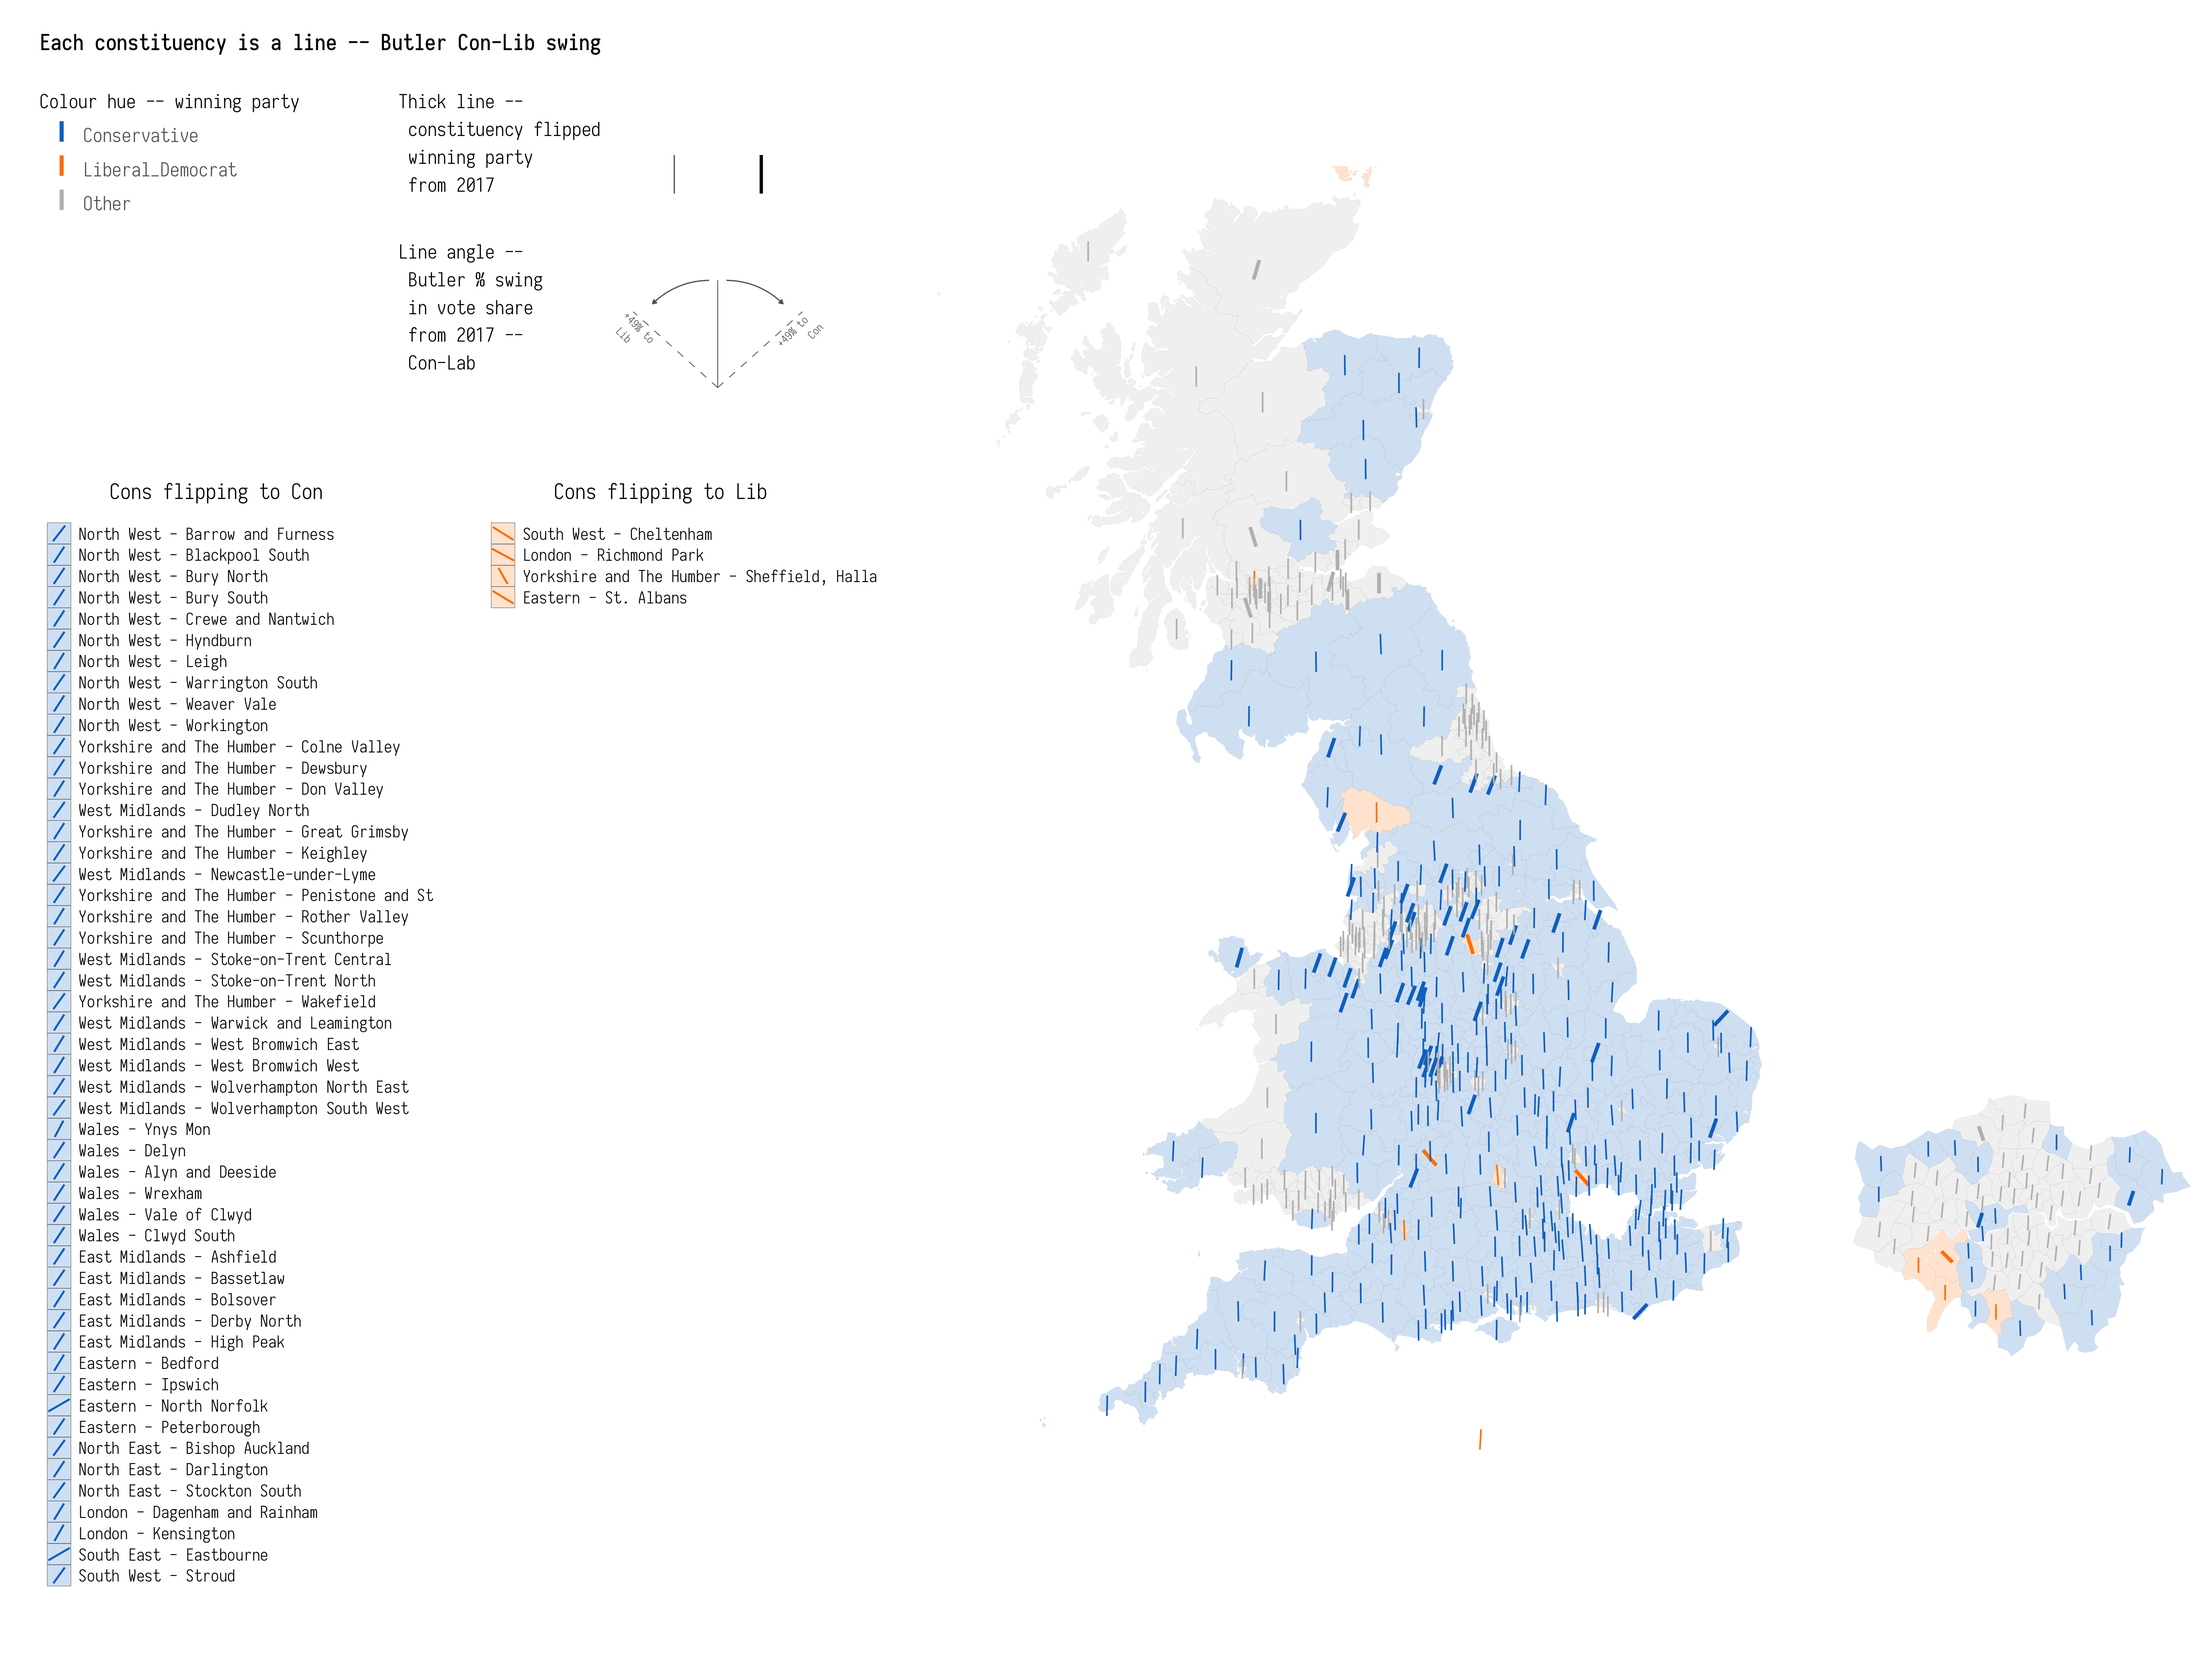
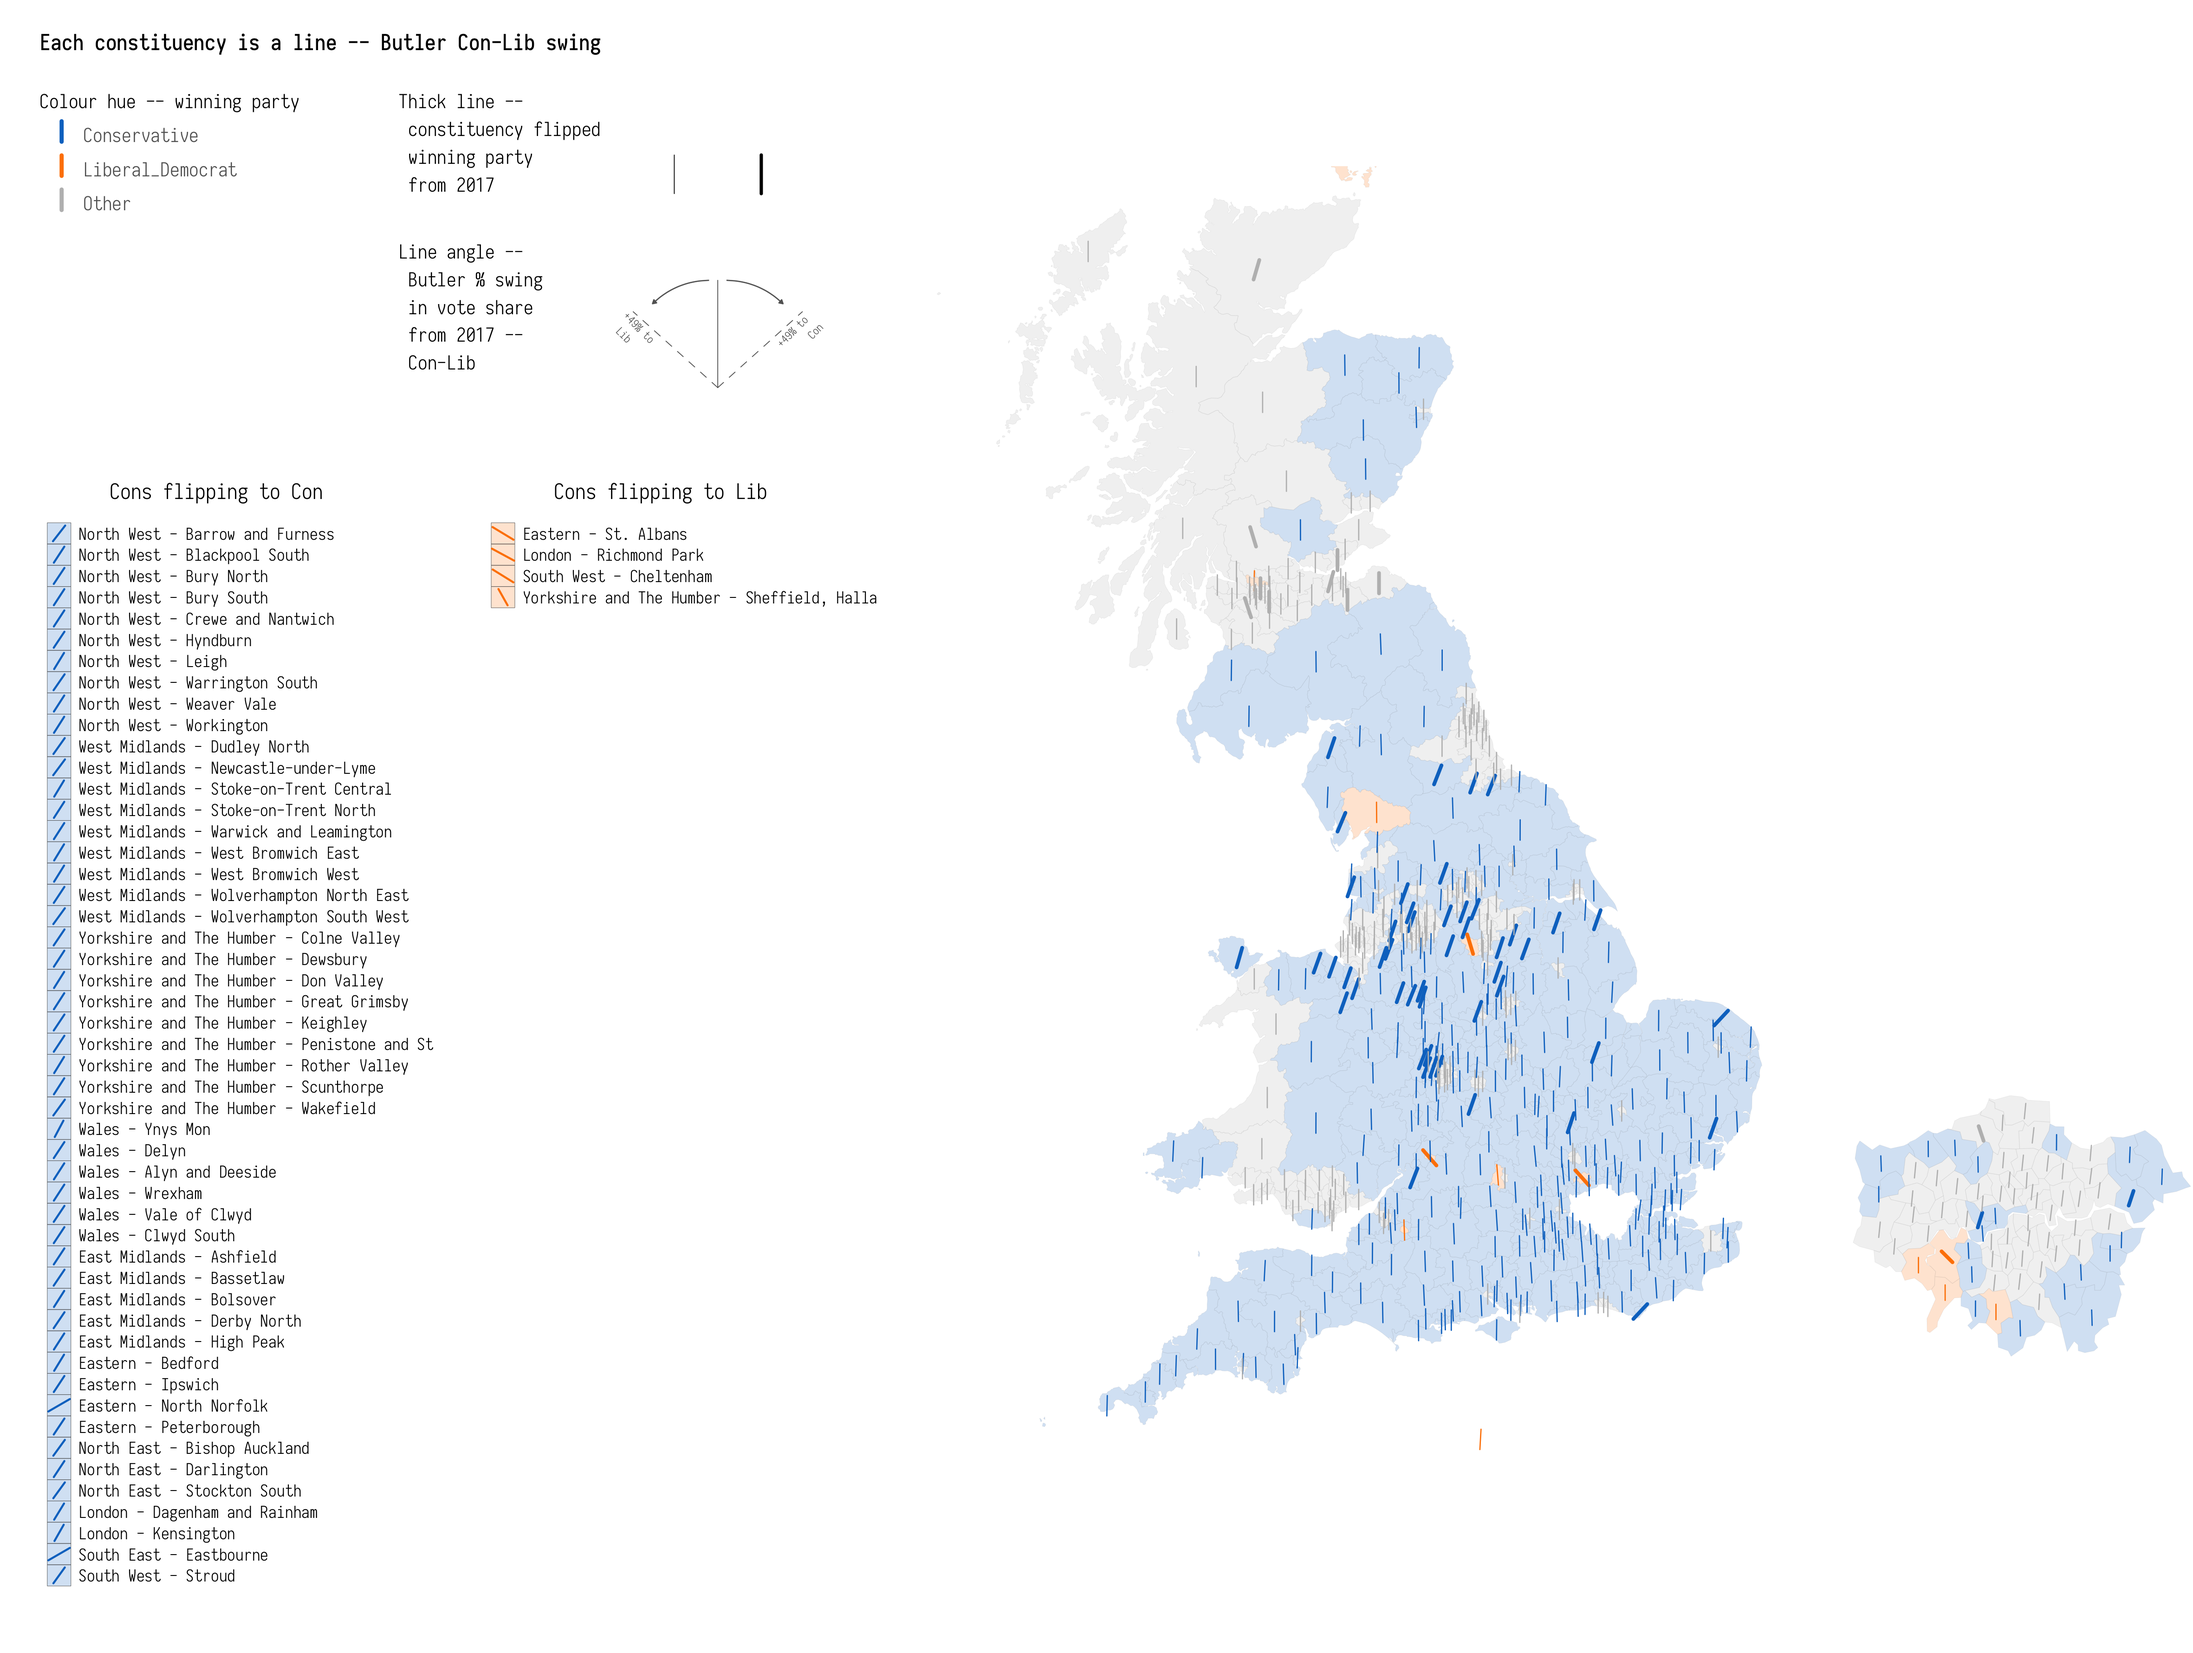
Design iteration 1 : Using YouGov MRP data.

Changed region(s): [[0.0311, 0.4364, 0.1867, 0.6858], [0.2178, 0.3429, 0.3112, 0.3741], [0.3423, 0.3429, 0.3734, 0.3741]]

diff --git a/README.md b/README.md
@@ -23,7 +23,7 @@ The data in this repository (found in [data/](data/)) is assembled from:
     : constituency-level vote share estimates based on surveys from
     100,000 panellists and an MRP model. Methods by [Benjamin
     Lauderdale](http://benjaminlauderdale.net/) and [Jack
-    Blumenau](https://www.jackblumenau.com/)
+    Blumenau](https://www.jackblumenau.com/).
 
 *Boundary data*
 
@@ -52,17 +52,7 @@ theme_set(theme_void(base_family="Iosevka Light"))
 # Read in data from 2017 and 2015 from Electoral Commission.
 data <- read_csv("./data/data.csv")
 
-# Check consistency in winning party names between 2017 and 2015.
-data %>% group_by(ons_code, year) %>%
-  mutate(
-    total_votes=sum(valid_votes),
-    first=max(valid_votes),
-    vote_share=valid_votes/total_votes,
-    is_first=if_else(valid_votes==first, 1, 0)
-    ) %>%
-  select(ons_code, constituency, party, valid_votes, vote_share, total_votes, is_first) %>%
-  filter(is_first==1, year) %>% ungroup() %>% select(party, year) %>% unique %>% View
-
+# From 2017, recode parties.
 # Recode speaker (Bercow) to Conservative
 # Recode Democratic Unionist Party to DUP
 # Recode Labour and Co-operative to Labour
@@ -112,10 +102,9 @@ winners_2017 <- data %>%
   mutate(
     total_votes=sum(valid_votes),
     first=max(valid_votes),
-    vote_share=valid_votes/total_votes,
     is_first=if_else(valid_votes==first, 1, 0)
     ) %>%
-  select(ons_code, constituency, party, valid_votes, vote_share, total_votes, is_first) %>%
+  select(ons_code, constituency, party, is_first) %>%
   filter(is_first==1) %>% ungroup() %>% select(party) %>% unique
 
 # Check that both match
@@ -244,7 +233,7 @@ names(colours) <- levels(data_plot$elected)
 
 To continuously vary line angle (as in [Washington Post
 piece](https://www.washingtonpost.com/graphics/politics/2016-election/election-results-from-coast-to-coast/)),
-I’m using `geom_spoke`. Couple of additional convenience functions are
+I’m using `geom_spoke()`. Couple of additional convenience functions are
 below.
 
 ``` r
@@ -275,9 +264,9 @@ PositionCenterSpoke <- ggplot2::ggproto('PositionCenterSpoke', ggplot2::Position
 ``` r
 # Use of angle to encode swing.
 swing <-  ggplot()+
-  geom_spoke(aes(x=0, y=-.35,angle=get_radians(90)),radius=0.55, size=0.2, colour="#636363")+
-  geom_spoke(aes(x=0, y=-.35,angle=get_radians(135)),radius=0.55, size=0.2,colour="#636363", linetype = "dashed")+
-  geom_spoke(aes(x=0, y=-.35,angle=get_radians(45)),radius=0.55,size=0.2,colour="#636363",linetype = "dashed")+
+  geom_spoke(aes(x=0, y=-.35,angle=get_radians(90)),radius=0.55, size=0.2, colour="#636363", lineend="round")+
+  geom_spoke(aes(x=0, y=-.35,angle=get_radians(135)),radius=0.55, size=0.2,colour="#636363", linetype = "dashed", lineend="round")+
+  geom_spoke(aes(x=0, y=-.35,angle=get_radians(45)),radius=0.55,size=0.2,colour="#636363",linetype = "dashed", lineend="round")+
   geom_text(aes(label="+17% to \n Con",x=.45, y=0), angle=45,hjust="right", family="Iosevka Light", size=2, colour="#636363")+
   geom_text(aes(label="+17% to \n Lab, Lib, Grn, SNP",x=-.45, y=0), angle=315,hjust="left", family="Iosevka Light", size=2, colour="#636363")+
   geom_curve(aes(x=-.04, y=.2, xend=-.3, yend=.08), size=0.3, curvature = 0.2, arrow=arrow(type="closed", length = unit(.03, "inches")), colour="#636363")+
@@ -292,7 +281,7 @@ temp_dat <-tibble(
 )
 party <- temp_dat %>%
   ggplot()+
-  geom_spoke(aes(x=x, y=y,angle=get_radians(90), colour=elected),radius=0.6, size=1)+
+  geom_spoke(aes(x=x, y=y,angle=get_radians(90), colour=elected),radius=0.6, size=1, lineend="round")+
   scale_colour_manual(values=colours)+
   geom_text(aes(label=elected,x=x+0.05, y=y+0.2),hjust="left",vjust="middle", family="Iosevka Light", size=3.5, colour="#636363")+
     guides(colour=FALSE)+
@@ -300,8 +289,8 @@ party <- temp_dat %>%
   ylim(1,8)
 # Use of thickness to flips.
 line <-  ggplot()+
-  geom_spoke(aes(x=-0.2, y=-.35,angle=get_radians(90)),radius=0.55, size=0.2)+
-  geom_spoke(aes(x=0.2, y=-.35,angle=get_radians(90)),radius=0.55, size=0.8)+
+  geom_spoke(aes(x=-0.2, y=-.35,angle=get_radians(90)),radius=0.55, size=0.2, lineend="round")+
+  geom_spoke(aes(x=0.2, y=-.35,angle=get_radians(90)),radius=0.55, size=0.8, lineend="round")+
   xlim(-0.5,0.5)+
   ylim(-0.35,0.35)
 
@@ -309,7 +298,7 @@ legend <- ggplot()+
   geom_text(aes(label="Each constituency is a line",x=0, y=6), hjust="left", vjust="top", family="Iosevka Medium", size=4)+
   geom_text(aes(label="Colour hue -- winning party",x=0, y=5), hjust="left", vjust="top", family="Iosevka Light", size=3.5)+
   geom_text(aes(label="Thick line -- \n constituency flipped \n winning party \n from 2017",x=4.5, y=5), hjust="left", vjust="top", family="Iosevka Light", size=3.5)+
-  geom_text(aes(label="Line angle -- \n net % increase \n in winning party \n share from 2017 \n '|' if % - in share",x=4.5, y=2.5), hjust="left", vjust="top", family="Iosevka Light", size=3.5)+
+  geom_text(aes(label="Line angle -- \n net % increase \n in winning party \n share from 2017 \n '|' if net % decrease \n in winning party share",x=4.5, y=2.5), hjust="left", vjust="top", family="Iosevka Light", size=3.5)+
   annotation_custom(grob=ggplotGrob(swing),xmin=7,xmax=10,ymin=0,ymax=2.5)+
   annotation_custom(ggplotGrob(line),xmin=7,xmax=10,ymin=4.2,ymax=3.3)+
   annotation_custom(ggplotGrob(party),xmin=0,xmax=6,ymin=0,ymax=5)+
@@ -320,7 +309,7 @@ legend <- ggplot()+
 ## Generate map with *geom\_spoke()* and *geom\_sf()*
 
 ``` r
-# Only shift overall vote if the winning party sees an increase in vote-share
+# Only shift overall vote if the winning party sees an increase in vote-share.
 max_shift <- max(data_plot$elected_shift)
 min_shift <- -max_shift
 # Calculate bounding boxes for use in annotation_custom().
@@ -339,14 +328,14 @@ gb <- data_plot %>%
   coord_sf(crs=27700, datum=NA, xlim = c(unname(uk_bbox$xmin), unname(uk_bbox$xmax)+5*london_width), ylim = c(unname(uk_bbox$ymin), unname(uk_bbox$ymax)-0.22*uk_height))+
   # Flipped
   geom_spoke(data=.%>% filter(is_flipped, elected %in% c("Conservative")),
-     aes(x=east, y=north, angle=get_radians(map_scale(pmax(elected_shift,0),min_shift,max_shift,135,45)), colour=elected), radius=8000, size=0.9, position="center_spoke")+
+     aes(x=east, y=north, angle=get_radians(map_scale(pmax(elected_shift,0),min_shift,max_shift,135,45)), colour=elected), radius=8000, size=0.9, position="center_spoke", lineend="round")+
   geom_spoke(data=. %>% filter(is_flipped, !elected %in% c("Conservative")),
-     aes(x=east, y=north, angle=get_radians(map_scale(pmax(elected_shift,0),min_shift,max_shift,45,135)), colour=elected), radius=8000, size=0.9, position="center_spoke")+
+     aes(x=east, y=north, angle=get_radians(map_scale(pmax(elected_shift,0),min_shift,max_shift,45,135)), colour=elected), radius=8000, size=0.9, position="center_spoke", lineend="round")+
   # Not flipped
    geom_spoke(data=. %>% filter(!is_flipped, elected %in% c("Conservative")),
-     aes(x=east, y=north, angle=get_radians(map_scale(pmax(elected_shift,0),min_shift,max_shift,135,45)), colour=elected), radius=8000, size=0.4, position="center_spoke")+
+     aes(x=east, y=north, angle=get_radians(map_scale(pmax(elected_shift,0),min_shift,max_shift,135,45)), colour=elected), radius=8000, size=0.3, position="center_spoke", lineend="round")+
   geom_spoke(data=. %>% filter(!is_flipped, !elected %in% c("Conservative")),
-     aes(x=east, y=north, angle=get_radians(map_scale(pmax(elected_shift,0),min_shift,max_shift,45,135)), colour=elected), radius=8000, size=0.4, position="center_spoke")+
+     aes(x=east, y=north, angle=get_radians(map_scale(pmax(elected_shift,0),min_shift,max_shift,45,135)), colour=elected), radius=8000, size=0.3, position="center_spoke", lineend="round")+
   scale_colour_manual(values=colours)+
   scale_fill_manual(values=colours)+
     guides(colour=FALSE, fill=FALSE)
@@ -358,14 +347,14 @@ london <- data_plot %>%
   coord_sf(datum=NA)+
   # Flipped
   geom_spoke(data=.%>% filter(is_flipped, elected %in% c("Conservative")),
-     aes(x=east, y=north, angle=get_radians(map_scale(pmax(elected_shift,0),min_shift,max_shift,135,45)), colour=elected), radius=8000/6, size=0.9, position="center_spoke")+
+     aes(x=east, y=north, angle=get_radians(map_scale(pmax(elected_shift,0),min_shift,max_shift,135,45)), colour=elected), radius=8000/6, size=0.9, position="center_spoke", lineend="round")+
   geom_spoke(data=.%>% filter(is_flipped, !elected %in% c("Conservative")),
-     aes(x=east, y=north, angle=get_radians(map_scale(pmax(elected_shift,0),min_shift,max_shift,45,135)), colour=elected), radius=8000/6, size=0.9, position="center_spoke")+
+     aes(x=east, y=north, angle=get_radians(map_scale(pmax(elected_shift,0),min_shift,max_shift,45,135)), colour=elected), radius=8000/6, size=0.9, position="center_spoke", lineend="round")+
   # Not flipped
    geom_spoke(data=.%>% filter(!is_flipped, elected %in% c("Conservative")),
-     aes(x=east, y=north, angle=get_radians(map_scale(pmax(elected_shift,0),min_shift,max_shift,135,45)), colour=elected), radius=8000/6, size=0.4, position="center_spoke")+
+     aes(x=east, y=north, angle=get_radians(map_scale(pmax(elected_shift,0),min_shift,max_shift,135,45)), colour=elected), radius=8000/6, size=0.3, position="center_spoke", lineend="round")+
   geom_spoke(data=.%>% filter(!is_flipped, !elected %in% c("Conservative")),
-     aes(x=east, y=north, angle=get_radians(map_scale(pmax(elected_shift,0),min_shift,max_shift,45,135)), colour=elected), radius=8000/6, size=0.4, position="center_spoke")+
+     aes(x=east, y=north, angle=get_radians(map_scale(pmax(elected_shift,0),min_shift,max_shift,45,135)), colour=elected), radius=8000/6, size=0.3, position="center_spoke", lineend="round")+
   scale_colour_manual(values=colours)+
   scale_fill_manual(values=colours)+
   guides(colour=FALSE, fill=FALSE)
@@ -385,15 +374,13 @@ map <- gb +
 ``` r
 flips_data <- data_plot %>%
   filter(is_flipped) %>%
+  mutate(flip_direction = if_else(elected %in% c("Conservative"),"Cons flipping to 'right'","Cons flipping to 'left'")) %>%
   group_by(region_name, elected) %>%
-  mutate(
-    number_flips=n(),
-    flip_direction = if_else(elected %in% c("Conservative"),"Cons flipping to 'right'","Cons flipping to 'left'")
-  ) %>% ungroup() %>%
+  mutate(number_flips=n()) %>% ungroup() %>%
   group_by(flip_direction) %>%
   # For constituencies ordered by flip_direction and regions with greatest number of flips
   # occuring first
-  arrange(flip_direction, desc(number_flips)) %>% mutate(row=row_number()) %>% ungroup() %>%
+  arrange(flip_direction, desc(number_flips), region_name) %>% mutate(row=row_number()) %>% ungroup() %>%
   mutate(facet_rows= case_when(row / 100 <1 ~ 1,row / 100 <2 ~ 2),
          max_row=max(row))
 
@@ -402,9 +389,9 @@ flips <- flips_data %>%
    geom_rect(aes(xmin=0.7, xmax=1.3, ymin=-row-0.5, ymax=-row+0.5, fill=elected),colour="#636363", size=0.1, alpha=0.2)+
   # Flipped
    geom_spoke(data=. %>% filter(is_flipped, elected %in% c("Conservative")),
-     aes(x=1, y=-row, angle=get_radians(map_scale(pmax(elected_shift,0),min_shift,max_shift,135,45)), colour=elected), radius=0.4, size=0.5, position="center_spoke")+
+     aes(x=1, y=-row, angle=get_radians(map_scale(pmax(elected_shift,0),min_shift,max_shift,135,45)), colour=elected), radius=0.4, size=0.5, position="center_spoke", lineend="round")+
     geom_spoke(data=. %>% filter(is_flipped==TRUE, !elected %in% c("Conservative")),
-       aes(x=1, y=-row, angle=get_radians(map_scale(pmax(elected_shift,0),min_shift,max_shift,45,135)), colour=elected), radius=0.4, size=0.5, position="center_spoke")+
+       aes(x=1, y=-row, angle=get_radians(map_scale(pmax(elected_shift,0),min_shift,max_shift,45,135)), colour=elected), radius=0.4, size=0.5, position="center_spoke", lineend="round")+
   geom_text(aes(x=1.5, y=-row, label=paste0(region_name," - ",cons_name)), hjust="left", size=3, family="Iosevka Light")+
  geom_text(data=. %>% filter(flip_direction=="Cons flipping to 'right'") %>% slice(1), aes(label=flip_direction), x=5, y=1, hjust="centre", family="Iosevka Light") +
   geom_text(data=. %>% filter(flip_direction=="Cons flipping to 'left'") %>% slice(1), aes(label=flip_direction), x=5, y=1, hjust="centre", family="Iosevka Light") +
